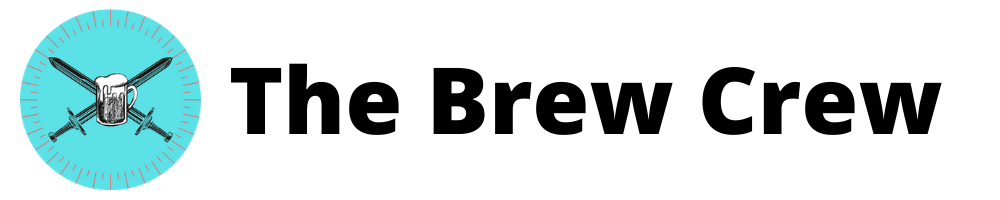
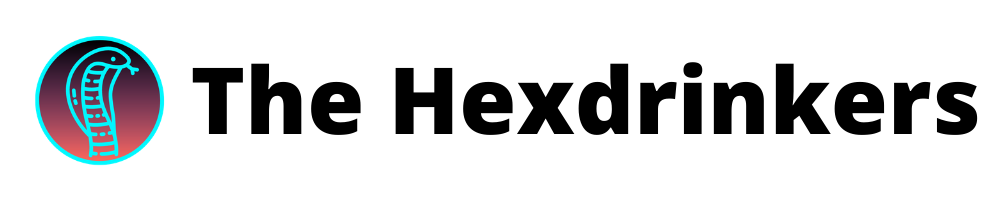
replacing all names

Changed region(s): [[0.0, 0.03, 0.992, 0.96]]

diff --git a/_includes/footer.html b/_includes/footer.html
@@ -10,12 +10,12 @@
             {% endif %}
                     <hr />
                     <div class="float-left">
-                        <p>&copy; Brew Crew 2020</p>
+                        <p>&copy; Hexdrinkers 2020</p>
                     </div>
                     <div class="float-right">
-                        <a class="accented-link" href="https://twitter.com/TheBrewCrew13" target="_blank"><i class="fa fa-twitter fa-lg"></i></a>&nbsp;&nbsp;&nbsp;&nbsp;
+                        <a class="accented-link" href="https://twitter.com/hexdrinkers" target="_blank"><i class="fa fa-twitter fa-lg"></i></a>&nbsp;&nbsp;&nbsp;&nbsp;
                         <a class="accented-link" href="https://www.youtube.com/channel/UCaUUnVOJqOa6QYtoKWEbCFQ/videos" target="_blank"><i class="fa fa-youtube fa-lg"></i></a>&nbsp;&nbsp;&nbsp;&nbsp;
-                        <a class="accented-link"href="mailto:itsthebrewcrew@gmail.com?subject=Site%20Link"><i class="fa fa-envelope fa-lg"></i></a>&nbsp;&nbsp;&nbsp;&nbsp;
+                        <a class="accented-link"href="mailto:hexdrinkers@gmail.com?subject=Site%20Link"><i class="fa fa-envelope fa-lg"></i></a>&nbsp;&nbsp;&nbsp;&nbsp;
                     </div>
                 </div>
         </div>

diff --git a/_layouts/default.html b/_layouts/default.html
@@ -13,9 +13,9 @@
       <meta property="og:image" content="{{ page.cover }}">
       <link rel="twitter:image" href="{{ page.cover }}" />
     {% else %}
-      <link rel="image_src" href="https://brewcrew.net/assets/images/logo.png" />
-      <meta property="og:image" content="https://brewcrew.net/assets/images/logo.png">
-      <link rel="twitter:image" href="https://brewcrew.net/assets/images/logo.png" />
+      <link rel="image_src" href="https://hexdrinkers.com/assets/images/logo.png" />
+      <meta property="og:image" content="https://hexdrinkers.com/assets/images/logo.png">
+      <link rel="twitter:image" href="https://hexdrinkers.com/assets/images/logo.png" />
     {% endif %}
     <script
 			  src="https://code.jquery.com/jquery-3.5.0.min.js"
@@ -28,7 +28,7 @@
     {% seo %}
     <!--Twitter-->
     <meta name="twitter:card" content="summary" />
-    <meta name="twitter:site" content="@TheBrewCrew13" />
+    <meta name="twitter:site" content="@hexdrinkers" />
     <meta name="twitter:title" content="{{ page.title }}" />
     {% if page.hook %}
       <meta name="og:description" content="{{page.hook}}" />

diff --git a/index.html b/index.html
@@ -1,5 +1,5 @@
 ---
-title: The Brew Crew
+title: The Hexdrinkers
 isIndex: true
 ---
 {% if paginator.page == 1 %}
@@ -54,7 +54,7 @@ isIndex: true
         </div>
         <div class="col-md-4">
             <div class="d-none d-xs-none d-sm-none d-md-none d-lg-block d-xl-block">
-                <a class="twitter-timeline" data-height="400" href="https://twitter.com/TheBrewCrew13?ref_src=twsrc%5Etfw">Tweets by TheBrewCrew13</a> <script async src="https://platform.twitter.com/widgets.js" charset="utf-8"></script> 
+                <a class="twitter-timeline" data-height="400" href="https://twitter.com/hexdrinkers?ref_src=twsrc%5Etfw">Tweets by Hexdrinkers</a> <script async src="https://platform.twitter.com/widgets.js" charset="utf-8"></script> 
             </div>
             <h3>Podcast</h3>
             <hr class="mt-0">

diff --git a/_layouts/post.html b/_layouts/post.html
@@ -24,7 +24,7 @@ layout: default
         <div class="col-md-3">
           <div class="row">
             <div class="float-left">
-              <img src="/assets/images/logo.png" class="img-fluid rounded-circle author-pic-sm" alt="The Brew Crew">
+              <img src="/assets/images/logo.png" class="img-fluid rounded-circle author-pic-sm" alt="The Hexdrinkers">
             </div>
             <div class="float-right ml-1">
               <p class="accented-link no-margin">{{ author.name }}</p>

diff --git a/_includes/banner.html b/_includes/banner.html
@@ -5,7 +5,7 @@
     </div>
     <div class="col-10 col-md-12">
         <a class="post-link" href="/">
-            <img src="/assets/images/banner.png" class="img-fluid" alt="The Brew Crew">
+            <img src="/assets/images/banner.png" class="img-fluid" alt="The Hexdrinkers">
         </a>
     </div>
 </div>

diff --git a/authors.html b/authors.html
@@ -1,5 +1,5 @@
 ---
-title: Brew Crew Contributors
+title: Hexdrinkers Contributors
 ---
 <div class="row">
   <div class="col-md-2"></div>

diff --git a/_posts/2020-06-05-defendersoftherealm.md b/_posts/2020-06-05-defendersoftherealm.md
@@ -32,7 +32,7 @@ Ladies and gentlemen rejoice, our almighty overlords at Wizards have granted (so
 {% include pics.html
 pic1="https://media.giphy.com/media/yyvSeRGVj4C64/giphy.gif" %}
 <br />
-Standard is now a whole new world (sorta)! It’s situations like these that we live for here at the Brew Crew; ignoring the norm and blazing paths in the face of the unknown (I’ve been reading <a href="https://www.brandonsanderson.com/" target="_blank" >Brandon Sanderson</a> recently, cut me some slack for my bombast). These changes don’t kill all the top-tier decks, and many might flock to the safer tried-and-true strategies emerging from their Companion Winter hibernation, but we at The Brew Crew like to keep looking forward. A shakeup like this provides opportunities to get wild before things settle into place. 
+Standard is now a whole new world (sorta)! It’s situations like these that we live for here at Hexdrinkers; ignoring the norm and blazing paths in the face of the unknown (I’ve been reading <a href="https://www.brandonsanderson.com/" target="_blank" >Brandon Sanderson</a> recently, cut me some slack for my bombast). These changes don’t kill all the top-tier decks, and many might flock to the safer tried-and-true strategies emerging from their Companion Winter hibernation, but we at Hexdrinkers like to keep looking forward. A shakeup like this provides opportunities to get wild before things settle into place. 
 
 Without further adieu, welcome to a two-for-one edition of *Homebrewed*.
 <br />
@@ -437,7 +437,7 @@ Lastly, commanding our forces is the majestic,
 	data-placement="top"
 	data-content="<img src='https://img.scryfall.com/cards/normal/front/a/3/a33add37-379d-4a90-9c04-529dff676986.jpg?1571282693' width=100% height=100%>">
 	Syr Gwyn, Hero of Ashvale
-</a>. Though once a hero, but she’s been forced to take an early retirement. Not even Brawl players have taken to this card (probably due to the fact that it costs six, c’mon Wizards you could’ve pushed this card a bit as opposed to so many others), so it’s up to us here at the Brew Crew to find Syr Gwyn a home (*nudge nudge* Chev, get on it). Once we can get her onto the field, the Hero of Ashvale is an absolute beast with sizable stats and excellent keywords. Even more importantly she gives us free equips (the Colossus Hammer dream shines a bit brighter) and more card advantage, which is crucial to push a deck like this across the finish line. Rise, and become a Hero once more in our crusade upon a new Standard format!
+</a>. Though once a hero, but she’s been forced to take an early retirement. Not even Brawl players have taken to this card (probably due to the fact that it costs six, c’mon Wizards you could’ve pushed this card a bit as opposed to so many others), so it’s up to us here at Hexdrinkers to find Syr Gwyn a home (*nudge nudge* Chev, get on it). Once we can get her onto the field, the Hero of Ashvale is an absolute beast with sizable stats and excellent keywords. Even more importantly she gives us free equips (the Colossus Hammer dream shines a bit brighter) and more card advantage, which is crucial to push a deck like this across the finish line. Rise, and become a Hero once more in our crusade upon a new Standard format!
 
 That’s a capable and sizable army that we’ve recruited, but every army needs support staff; medics, squires, and most importantly, blacksmiths, all round out a successful war effort. Our forces are no different.
 <br />
@@ -742,7 +742,7 @@ That’s the deck, a nice twist on an aggro deck incorporating a recently overlo
 </div>
 
 <br />
-Theros Beyond Death had this series of ‘Hero’ cards that made one helluva Boros aggro deck in draft. With all the auras in the set you could suit up a Hero and what I’d like to dub the ‘Hero Clause’ (a nod to original Theros’s <a href="https://mtg.gamepedia.com/Heroic" target="_blank">'Heroic' mechanic</a>) kicks in buffing your whole team. It’s like in any superhero movie where at the edge of defeat, the leader of {insert your favorite named assemblage of superheroes} gives their rousing speech about not giving up and the power of friendship and working together and every gets their energy back plus more to defeat the baddies. Or maybe that was the plot of every Shounen anime ever… Anyway! I thought, why assemble the greatest version of this draft deck ever made and take a whole legion of heroes to war in Standard. And you know how it goes over here at the Brew Crew, once that thought takes shape, we have to deliver it to y’all, fully fleshed out.
+Theros Beyond Death had this series of ‘Hero’ cards that made one helluva Boros aggro deck in draft. With all the auras in the set you could suit up a Hero and what I’d like to dub the ‘Hero Clause’ (a nod to original Theros’s <a href="https://mtg.gamepedia.com/Heroic" target="_blank">'Heroic' mechanic</a>) kicks in buffing your whole team. It’s like in any superhero movie where at the edge of defeat, the leader of {insert your favorite named assemblage of superheroes} gives their rousing speech about not giving up and the power of friendship and working together and every gets their energy back plus more to defeat the baddies. Or maybe that was the plot of every Shounen anime ever… Anyway! I thought, why assemble the greatest version of this draft deck ever made and take a whole legion of heroes to war in Standard. And you know how it goes over here at Hexdrinkers, once that thought takes shape, we have to deliver it to y’all, fully fleshed out.
 
 # With Great Power Comes Great Responsibility
 <br />

diff --git a/_posts/2020-09-16-historic2-2.md b/_posts/2020-09-16-historic2-2.md
@@ -8,7 +8,7 @@ length: 10
 hook: Busted Cards. Busted Cards Everywhere.
 highlight: true
 ---
-….and just like that, we’re back! *Historically Speaking* returns with the second half of my Historic metagame analysis, this time discussing the main “midrange” and control decks in the format. For those of you just joining me, welcome! Check out part 1 of this analysis where I cover aggro and tribal decks, <a href="https://brewcrew.net/historically%20speaking/2020/09/09/historic2-1.html" target="_blank">here</a>.
+….and just like that, we’re back! *Historically Speaking* returns with the second half of my Historic metagame analysis, this time discussing the main “midrange” and control decks in the format. For those of you just joining me, welcome! Check out part 1 of this analysis where I cover aggro and tribal decks, <a href="https://hexdrinkers.com/historically%20speaking/2020/09/09/historic2-1.html" target="_blank">here</a>.
 
 Same as before, I’ve broken down the decks under these broader archetypes. I’ll only be covering the most prominent decks in the meta, we’ll save the brewing for later *wink wink*. So without further adieu, let’s finish our grand tour! 
 <br />
@@ -452,7 +452,7 @@ Jund versions of this deck trim their Citadels and often forego <a
 	data-placement="top"
 	data-content="<img src='https://c1.scryfall.com/file/scryfall-cards/normal/front/4/6/465d8c18-c76b-488a-a4ec-ec0d2267a307.jpg?1592706389' width=100% height=100%>">
 	Blood Artist
-</a> entirely to form a shell much akin to the Jund Food deck of recent Standards (a personal favorite deck of mine, <a href="https://brewcrew.net/on%20the%20rocks/2020/06/18/otr3_jundfood.html" target="_blank">check out this gameplay</a>). <a
+</a> entirely to form a shell much akin to the Jund Food deck of recent Standards (a personal favorite deck of mine, <a href="https://hexdrinkers.com/on%20the%20rocks/2020/06/18/otr3_jundfood.html" target="_blank">check out this gameplay</a>). <a
 	class="accented-link external-card-link"
 	target="_blank"
 	href="https://scryfall.com/card/war/204/mayhem-devil?utm_source=api"

diff --git a/_posts/2020-08-12-historic1.md b/_posts/2020-08-12-historic1.md
@@ -8,7 +8,7 @@ length: 10
 hook: New Format, Who Dis?
 highlight: true
 ---
-What’s good y’all?! Today, the Brew Crew treads into new territory… *Historic*! I’ve been hearing increasing murmurs of the format and its potential greatness. With my interest in *Standard* waning for the time being, and the recent shakeups across many formats, I figured this was a perfect time for me to fully delve into the format in a new series: *Historically Speaking…*!
+What’s good y’all?! Today, Hexdrinkers treads into new territory… *Historic*! I’ve been hearing increasing murmurs of the format and its potential greatness. With my interest in *Standard* waning for the time being, and the recent shakeups across many formats, I figured this was a perfect time for me to fully delve into the format in a new series: *Historically Speaking…*!
 <br />
 <br />
 {% include pics.html
@@ -207,7 +207,7 @@ With the recent regicide of
 	Wilderness Reclamation
 </a>, I suspect that these tier two decks will quickly rise to fill the space. Also, *Jumpstart* cards are still fresh and haven’t been tested fully, so I hope they will start to make even more impacts and soon we’ll have a new set in *Zendikar Rising* to shake things up even more! 
 
-I’m excited to explore this fresh new format! Next week I’ll be doing a deeper dive into the current decks and testing some of them out. After that it’s off to the Brew Crew special laboratory to concoct up some lists of our own! Hit us up in the comments or on social media for anything you want to see me build around, and remember to stay brewin’ y’all!!
+I’m excited to explore this fresh new format! Next week I’ll be doing a deeper dive into the current decks and testing some of them out. After that it’s off to the Hexdrinkers special laboratory to concoct up some lists of our own! Hit us up in the comments or on social media for anything you want to see me build around, and remember to stay brewin’ y’all!!
 <br />
 <br />
 

diff --git a/_posts/2020-06-29-author_faq.md b/_posts/2020-06-29-author_faq.md
@@ -7,7 +7,7 @@ tags:
 title: "A Casual Sitdown with the Founders"
 hook: "The EXCLUSIVE interview they DON'T want you to SEE!"
 ---
-*After much back and forth and a few fist-fights we were able to score a one-of-a-kind interview with The Brew Crew’s very own Chev Eldrid, and Julian Leal. They claim no one else even wanted to interview them...preposterous. Here is our unedited question section from that interview. Enjoy:*
+*After much back and forth and a few fist-fights we were able to score a one-of-a-kind interview with The Hexdrinkers’ very own Chev Eldrid, and Julian Leal. They claim no one else even wanted to interview them...preposterous. Here is our unedited question section from that interview. Enjoy:*
 
 **Q: Wow, THE Julian Leal and Chev Eldrid? It’s so good to finally meet you! I’ve been following you guys ever since that welcome article and continue to come back two times a week!**
 
@@ -15,7 +15,7 @@ JL: ...Chev, what’s going on? Aren’t you the one writing this?
 
 CE: What? No, this is a very unbiased reporter who is also a big fan of ours. I’m just happy we could make the time for them. Please, continue.
 
-**Q: Thank you Chev. Now we’ve known The Brew Crew as a brand first, and its people second. Obviously Julian is the one responsible for classics like the “On The Rocks” series and Chev has really taken to the MTGA Brawl format, but aside from the writing we don’t know much about you both.**
+**Q: Thank you Chev. Now we’ve known Hexdrinkers as a brand first, and its people second. Obviously Julian is the one responsible for classics like the “On The Rocks” series and Chev has really taken to the MTGA Brawl format, but aside from the writing we don’t know much about you both.**
 
 JL: Yes we’re very private people. That’s why we like to keep our Twitter account as a single follower and keep our site relatively unlisted on Google. It’s what has helped us really cultivate our “elusive” persona.
 

diff --git a/about.md b/about.md
@@ -30,10 +30,10 @@ title: About the Crew
             <p><b>Julian Leal</b> - A recent graduate of the University of Maryland, Julian has spent the last year developing his professional career as a Geologist. Though he’s most at home playing Commander, Julian has also spent this time striving to branch into all other constructed formats and brewing around anything and everything. Expect brews and competitive decks in Standard, a delve into Historic, and the occasional foray into limited (plus whatever other debauchery he can sneak past Chev). Julian will also be streaming, hopefully regularly.</p> 
             <br />
             <h2>Our Sources</h2>
-            <p>The Brew Crew would not be possible without help from the fantastic people at <a href="https://scryfall.com/" target="_blank">Scryfall</a> who continue to provide high-res card iamges, fantastic search capabilities, and an easy-to-use api. Thank you.</p>
+            <p>The Hexdrinkers would not be possible without help from the fantastic people at <a href="https://scryfall.com/" target="_blank">Scryfall</a> who continue to provide high-res card iamges, fantastic search capabilities, and an easy-to-use api. Thank you.</p>
             <p>We would also love to show appreciation for the team at <a href="https://www.moxfield.com/users/The_brew_crew" target="_blank">Moxfield</a> for delivering a fantastic deck editor that we end up including in most articles</p>
             <br />
-            <i>"The Brew Crew" is unofficial Fan Content permitted under the Fan Content Policy. Not approved/endorsed by Wizards. Portions of the materials used are property of Wizards of the Coast. ©Wizards of the Coast LLC.</i>
+            <i>"The Hexdrinkers" is unofficial Fan Content permitted under the Fan Content Policy. Not approved/endorsed by Wizards. Portions of the materials used are property of Wizards of the Coast. ©Wizards of the Coast LLC.</i>
         </div>
     </div>
 </div>

diff --git a/_posts/2020-06-08-greatwurm.md b/_posts/2020-06-08-greatwurm.md
@@ -288,7 +288,7 @@ pic1="https://img.scryfall.com/cards/large/front/e/a/ea20208b-1939-4c69-8cfd-c0a
 pic2="https://img.scryfall.com/cards/large/front/6/8/68c0d087-540a-4249-9265-f13cc8e776ea.jpg?1581479994"
 pic3="https://img.scryfall.com/cards/large/front/c/e/ceb7308d-608c-4ede-9496-d795fc5bb271.jpg?1572489928" %}
 <br />
-Of course, to fuel our reanimation strategy we’ll need ways to fill our graveyard. The two best options are discard effects or self-mill. Self-mill will put us at least in Golgari, maybe Sultai, depending on how deep we go. If you want a better look at what options there are, check out my <a href="https://brewcrew.net/rev%20your%20engines/2020/05/11/rye_1.html" target="_blank">Titan’s Nest article</a>. 
+Of course, to fuel our reanimation strategy we’ll need ways to fill our graveyard. The two best options are discard effects or self-mill. Self-mill will put us at least in Golgari, maybe Sultai, depending on how deep we go. If you want a better look at what options there are, check out my <a href="https://hexdrinkers.com/rev%20your%20engines/2020/05/11/rye_1.html" target="_blank">Titan’s Nest article</a>. 
 <a
 	class="accented-link"
 	target="_blank"
@@ -342,7 +342,7 @@ Of course, to fuel our reanimation strategy we’ll need ways to fill our gravey
 	data-placement="top"
 	data-content="<img src='https://img.scryfall.com/cards/normal/front/2/4/2422973d-36ee-4b8c-9a47-fcd160aa9f63.jpg?1581479595' width=100% height=100%>">
 	Thirst for Meaning
-</a> both turbo charge our graveyard. For a more in-depth discussion, check out my <a href="https://brewcrew.net/rev%20your%20engines/2020/05/15/rye_2.html" target="_blank">Offspring's Revenge article</a>.
+</a> both turbo charge our graveyard. For a more in-depth discussion, check out my <a href="https://hexdrinkers.com/rev%20your%20engines/2020/05/15/rye_2.html" target="_blank">Offspring's Revenge article</a>.
 <br />
 <br />
 {% include pics.html
